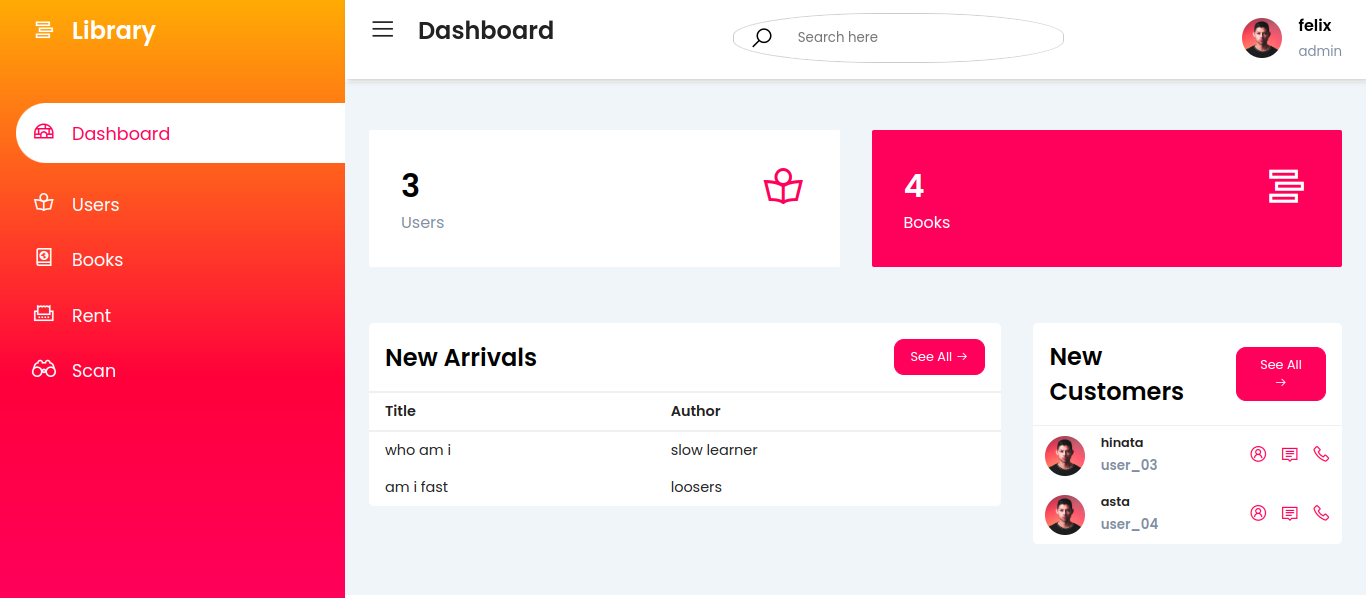
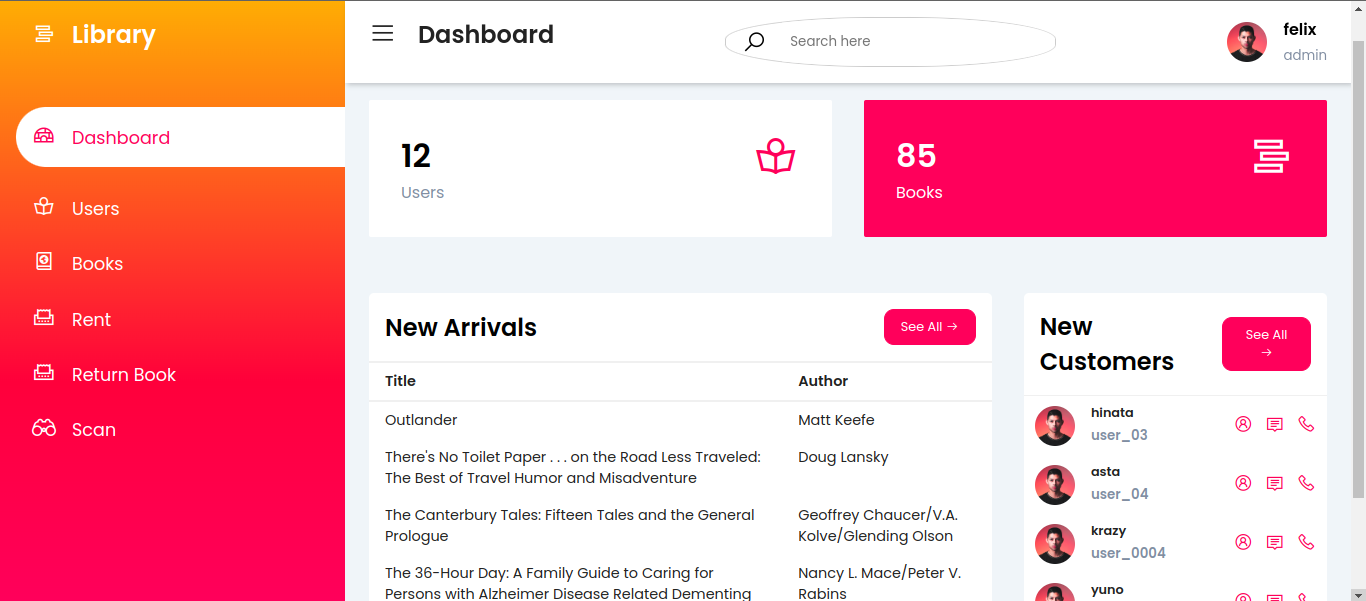
updated readme file

diff --git a/templates/admin.returnBook.html b/templates/admin.returnBook.html
@@ -82,7 +82,7 @@
                             {% if 'return' %}
                                 <h4>{{msg.msg}}</h4>
                                 <h4>Total rent amount is ${{msg.Total}}</h4>
-                                {% endif %}
+                            {% endif %}
                         </div>
                     </div>
                 </div>

diff --git a/README.md b/README.md
@@ -32,12 +32,15 @@ v) Books
 
 ![Alt text](https://github.com/felix1614/Projects/blob/Library-Management-System/screenshots/new%20customers.png "Optional Title")
 
-vi) Responsive page
+vi) Book Return
+![Alt text](https://github.com/felix1614/Projects/blob/Library-Management-System/screenshots/book%20return.png "Optional Title")
 
+vii) Scan Page
+
+1) By clicking on scan button will scan the books from frappe Api and store it in db by default it will store 20 books, user can give the quantity to how much they want to store. 
 ![Alt text](https://github.com/felix1614/Projects/blob/Library-Management-System/screenshots/dynamic%20page.png "Optional Title")
 
-**need some extra time to finish the remaining**
-1) scan
-2) save
-3) image upload
+![Alt text](https://github.com/felix1614/Projects/blob/Library-Management-System/screenshots/scan%20result.png "Optional Title")
 
+viii) Responsive page
+![Alt text](https://github.com/felix1614/Projects/blob/Library-Management-System/screenshots/dynamic%20page.png "Optional Title")
